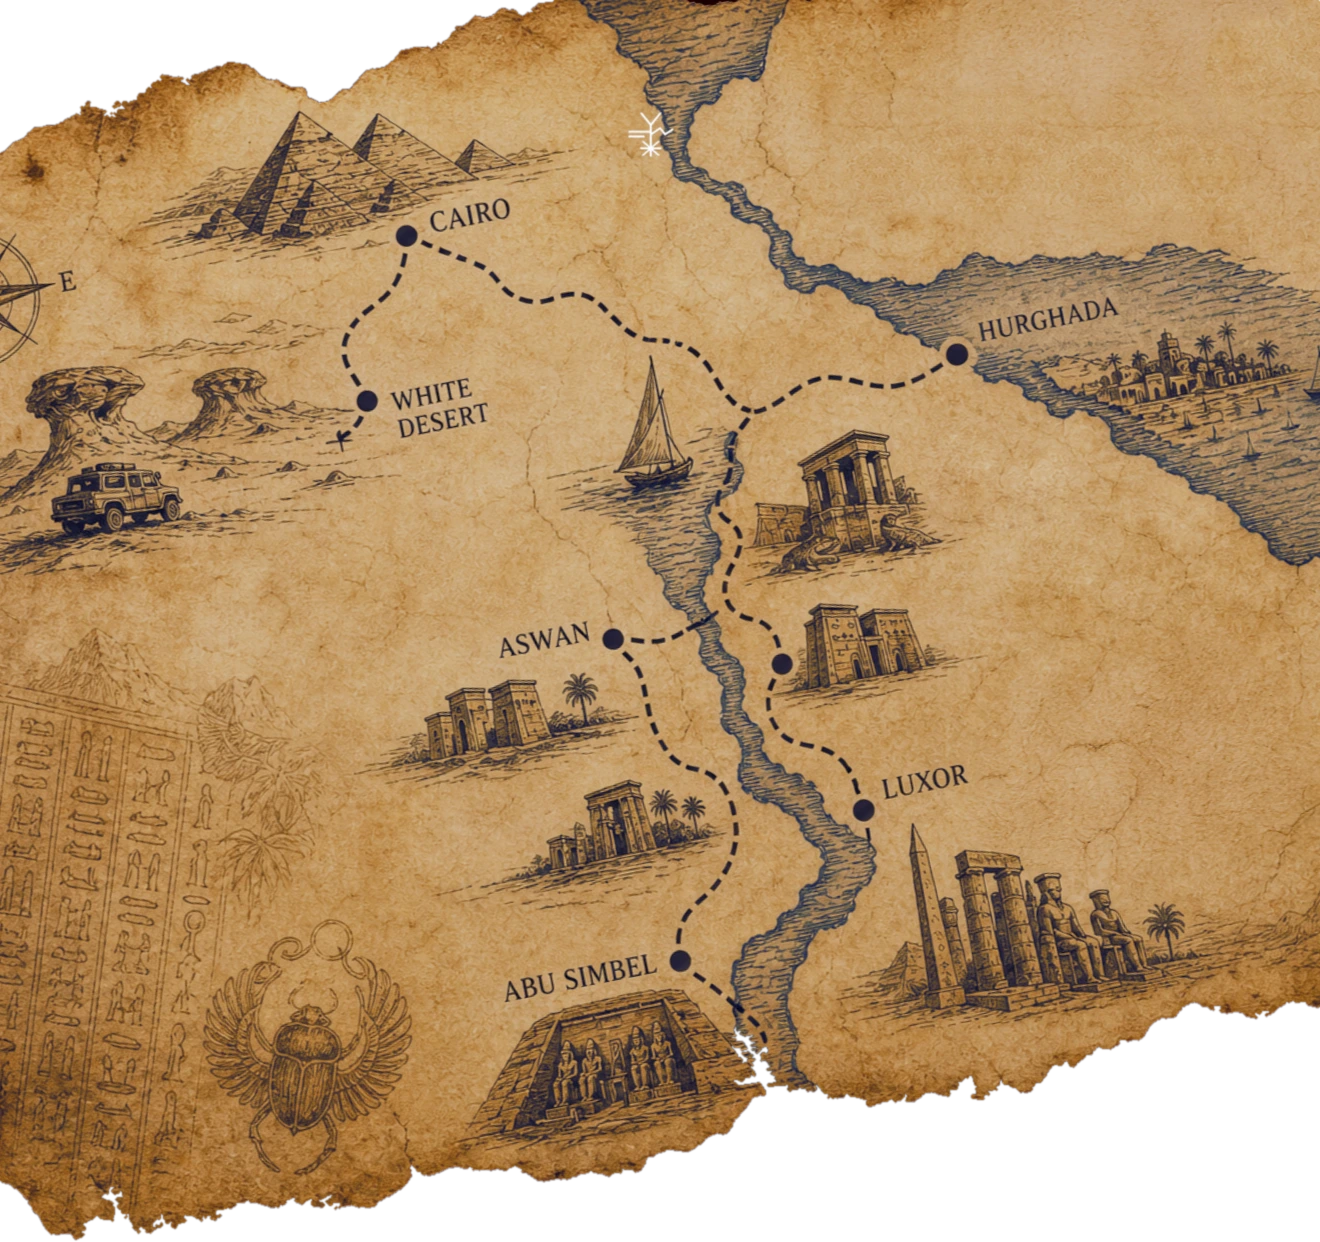
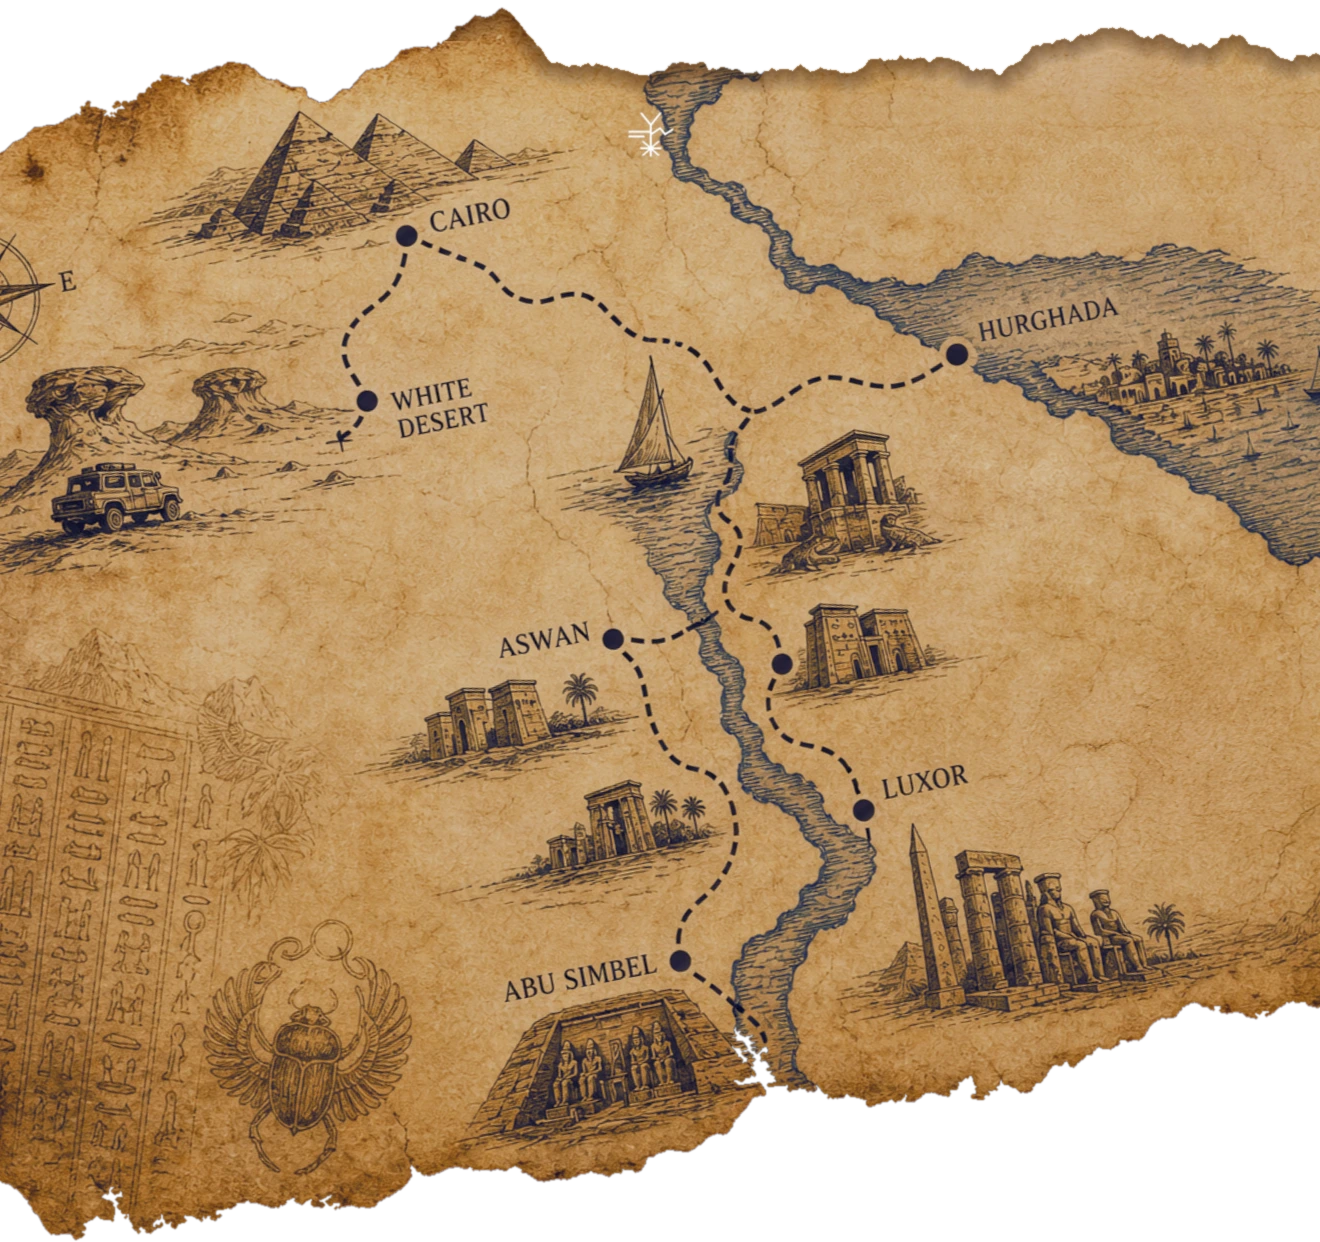
Egito: canto de cima do mapa rasgado como o resto (sem a parte reta), laterais de volta; presentes Gatinho de Bastet e Patinho do Nilo no lugar de abraço e coração
Claude-Session: https://claude.ai/code/session_017RJGScnowdndvDzY2p9N3m

Changed region(s): [[0.3417, 0.0, 1.0, 0.0918]]

diff --git a/APP CARAVANA EGITO/app/caravana-do-ceu.html b/APP CARAVANA EGITO/app/caravana-do-ceu.html
@@ -2233,8 +2233,6 @@ nav.tabs{background:#24180F!important;border-top:0!important;box-shadow:none!imp
 /* friso de sinais no fim de cada página e embaixo do título da página inicial */
 .view::after{content:"𓋹 𓂀 𓆣 𓊽 𓅃 𓆸 𓍶 𓃢 𓇳 𓇼";display:block;text-align:center;margin:26px 0 6px;font:20px/1 "Noto Sans Egyptian Hieroglyphs",serif;letter-spacing:.35em;color:rgba(60,36,14,.32);pointer-events:none}
 .mapahero h1::after{content:"𓇼 𓋹 𓇼";display:block;margin-top:6px;font:16px/1 "Noto Sans Egyptian Hieroglyphs",serif;letter-spacing:.5em;color:rgba(60,36,14,.45)}
-/* os lados retos do mapa somem no papiro (sem linha de corte) */
-.mmundo>img{-webkit-mask-image:linear-gradient(90deg,transparent 0,#000 7%,#000 93%,transparent 100%);mask-image:linear-gradient(90deg,transparent 0,#000 7%,#000 93%,transparent 100%)}
 
 /* Mensageiro do Nilo: a felucca balança na água em vez de bater asas */
 .felucca .asa{animation:none!important;transform:none!important}
@@ -9070,8 +9068,8 @@ function vJogo() {
 }
 // ---------- Pombo-correio entre os viajantes: cartinhas, presentes e oferendas ----------
 const PRESENTES = [["lotus", "Flor de lótus"], ["diya", "Lamparina"], ["karkade", "Chá de hibisco"], ["tamaras", "Tâmaras"], ["incenso", "Incenso"],
-  ["penamaat", "Pena de Maat"], ["sistro", "Sistro"], ["ankh", "Ankh da vida"], ["escaravelho", "Escaravelho"], ["olho", "Olho de Hórus"], ["abraco", "Um abraço"], ["coracao", "Meu coração"]];
-const PRESENTES_ANTIGOS = [["guirlanda", "Guirlanda de cravos"], ["chai", "Um chai"], ["ladoo", "Doce ladoo"], ["pena", "Pena de pavão"], ["sino", "Sino do templo"], ["coco", "Coco de oferenda"], ["rakhi", "Fio de proteção"]];
+  ["penamaat", "Pena de Maat"], ["sistro", "Sistro"], ["ankh", "Ankh da vida"], ["escaravelho", "Escaravelho"], ["olho", "Olho de Hórus"], ["gatinho", "Gatinho de Bastet"], ["patinho", "Patinho do Nilo"]];
+const PRESENTES_ANTIGOS = [["abraco", "Um abraço"], ["coracao", "Meu coração"], ["guirlanda", "Guirlanda de cravos"], ["chai", "Um chai"], ["ladoo", "Doce ladoo"], ["pena", "Pena de pavão"], ["sino", "Sino do templo"], ["coco", "Coco de oferenda"], ["rakhi", "Fio de proteção"]];
 const presenteDe = id => PRESENTES.find(x => x[0] === id) || PRESENTES_ANTIGOS.find(x => x[0] === id);
 function desenhaPresente(id) {
   const P = (d, fill, x) => h("path", { d, fill, ...(x || {}) }), C = (cx, cy, r, fill, x) => h("circle", { cx, cy, r, fill, ...(x || {}) });
@@ -9083,6 +9081,8 @@ function desenhaPresente(id) {
   if (id === "sistro") return [L("M20 25 L20 37", "#8A6420", 2.4), P("M13 25 Q12 5 20 5 Q28 5 27 25 L24 25 Q24.5 9 20 9 Q15.5 9 16 25 Z", O, { stroke: "#8A6420", "stroke-width": .8 }), L("M12 13 L28 13 M12 19 L28 19", "#8A6420", 1.2), ...[13, 19].flatMap(y => [C(11, y, 1.3, O), C(29, y, 1.3, O)])];
   if (id === "ankh") return [h("ellipse", { cx: 20, cy: 11, rx: 5, ry: 6.4, fill: "none", stroke: O, "stroke-width": 3.2 }), L("M10 19.5 L30 19.5", O, 3.4), L("M20 18 L20 36", O, 3.4)];
   if (id === "escaravelho") return [h("ellipse", { cx: 20, cy: 23, rx: 10, ry: 12, fill: "#2659A8", stroke: "#0E2756", "stroke-width": 1.2 }), h("ellipse", { cx: 20, cy: 11, rx: 5, ry: 3.4, fill: "#2659A8", stroke: "#0E2756", "stroke-width": 1.2 }), L("M20 14 L20 35 M10.5 17 Q20 14 29.5 17", "#0E2756", 1.2), L("M10 20 L5 17 M10 26 L4 27 M11 31 L6 35 M30 20 L35 17 M30 26 L36 27 M29 31 L34 35", "#0E2756", 1.3), P("M15 19 Q14 25 16 29", "none", { stroke: "#9FC3EE", "stroke-width": 1.4, opacity: .7 })];
+  if (id === "gatinho") return [P("M12 36 Q8 26 13 19 L12 9 L16.5 13.5 Q20 12.5 23.5 13.5 L28 9 L27 19 Q32 26 28 36 Z", "#2B2420", { stroke: "#120E0C", "stroke-width": .8 }), P("M28 34 Q36 33 34 24", "none", { stroke: "#2B2420", "stroke-width": 2.6, "stroke-linecap": "round" }), h("ellipse", { cx: 16.6, cy: 19.5, rx: 1.6, ry: 2, fill: "#E9C46A" }), h("ellipse", { cx: 23.4, cy: 19.5, rx: 1.6, ry: 2, fill: "#E9C46A" }), P("M18.8 23 L21.2 23 L20 24.4 Z", "#C27A7A"), P("M14 27.5 Q20 31 26 27.5", "none", { stroke: "#D4A84F", "stroke-width": 1.6 }), C(20, 30.4, 1.5, "#D4A84F")];
+  if (id === "patinho") return [P("M5 31 Q20 36 35 31", "none", { stroke: "#5E9AB8", "stroke-width": 1.6, "stroke-linecap": "round" }), P("M9 27 Q8 19 17 19 Q22 19 25 23 L32 21 Q31 30 22 31 Q12 32 9 27 Z", "#F2E6C8", { stroke: "#7A5A2E", "stroke-width": .9 }), C(14, 16, 5, "#3F7A5A", { stroke: "#2A5A3E", "stroke-width": .8 }), P("M9.5 16.5 L5 18 L9.5 19 Z", "#E2913A"), C(13, 15, .9, "#1E140B"), P("M17 24 Q22 22 26 25", "none", { stroke: "#B58A4A", "stroke-width": 1 })];
   if (id === "olho") return [P("M5 18 Q20 7 35 18 Q20 24 5 18 Z", "#F3EAD4", { stroke: "#1E2A4A", "stroke-width": 2 }), C(20, 17, 4, "#1E2A4A"), L("M35 18 L38 18", "#1E2A4A", 2), L("M17 22 L15 33 M24 22 Q27 30 33 30 Q35 27 32 25", "#1E2A4A", 2), L("M8 11 Q20 3 33 10", "#1E2A4A", 2)];
   if (id === "lotus") return [P("M20 31 Q9 30 5 21 Q13 21 20 31Z", "#E98AA6"), P("M20 31 Q31 30 35 21 Q27 21 20 31Z", "#E98AA6"), P("M20 31 Q11 24 12 13 Q19 19 20 31Z", "#F2A7BC"), P("M20 31 Q29 24 28 13 Q21 19 20 31Z", "#F2A7BC"), P("M20 31 Q14 20 20 7 Q26 20 20 31Z", "#F7C3D1"), P("M8 33 Q20 37 32 33", "none", { stroke: "#5F8A4A", "stroke-width": 2.2, "stroke-linecap": "round" })];
   if (id === "guirlanda") return [P("M7 9 Q20 44 33 9", "none", { stroke: "#3F7A3A", "stroke-width": 1, opacity: .6 }), ...Array.from({ length: 11 }, (_, k) => { const t = k / 10, x = 7 + 26 * t, y = 9 + 4 * 25 * t * (1 - t) * 1.08; return C(x, y, 3.1, k % 2 ? "#F2A51F" : "#E2711D", { stroke: "#B5541A", "stroke-width": .4 }); }), C(20, 36, 2.4, "#C0392B")];

diff --git a/APP CARAVANA EGITO/tools/egito/tema-gibi.css b/APP CARAVANA EGITO/tools/egito/tema-gibi.css
@@ -359,8 +359,6 @@ nav.tabs{background:#24180F!important;border-top:0!important;box-shadow:none!imp
 /* friso de sinais no fim de cada página e embaixo do título da página inicial */
 .view::after{content:"𓋹 𓂀 𓆣 𓊽 𓅃 𓆸 𓍶 𓃢 𓇳 𓇼";display:block;text-align:center;margin:26px 0 6px;font:20px/1 "Noto Sans Egyptian Hieroglyphs",serif;letter-spacing:.35em;color:rgba(60,36,14,.32);pointer-events:none}
 .mapahero h1::after{content:"𓇼 𓋹 𓇼";display:block;margin-top:6px;font:16px/1 "Noto Sans Egyptian Hieroglyphs",serif;letter-spacing:.5em;color:rgba(60,36,14,.45)}
-/* os lados retos do mapa somem no papiro (sem linha de corte) */
-.mmundo>img{-webkit-mask-image:linear-gradient(90deg,transparent 0,#000 7%,#000 93%,transparent 100%);mask-image:linear-gradient(90deg,transparent 0,#000 7%,#000 93%,transparent 100%)}
 
 /* Mensageiro do Nilo: a felucca balança na água em vez de bater asas */
 .felucca .asa{animation:none!important;transform:none!important}

diff --git a/APP CARAVANA EGITO/tools/egito/mensageiro-nilo.py b/APP CARAVANA EGITO/tools/egito/mensageiro-nilo.py
@@ -61,8 +61,8 @@ t = p.read_text()
 velho = '''const PRESENTES = [["lotus", "Flor de lótus"], ["guirlanda", "Guirlanda de cravos"], ["diya", "Lamparina"], ["chai", "Um chai"], ["ladoo", "Doce ladoo"], ["incenso", "Incenso"],
   ["pena", "Pena de pavão"], ["sino", "Sino do templo"], ["coco", "Coco de oferenda"], ["rakhi", "Fio de proteção"], ["abraco", "Um abraço"], ["coracao", "Meu coração"]];'''
 novo = '''const PRESENTES = [["lotus", "Flor de lótus"], ["diya", "Lamparina"], ["karkade", "Chá de hibisco"], ["tamaras", "Tâmaras"], ["incenso", "Incenso"],
-  ["penamaat", "Pena de Maat"], ["sistro", "Sistro"], ["ankh", "Ankh da vida"], ["escaravelho", "Escaravelho"], ["olho", "Olho de Hórus"], ["abraco", "Um abraço"], ["coracao", "Meu coração"]];
-const PRESENTES_ANTIGOS = [["guirlanda", "Guirlanda de cravos"], ["chai", "Um chai"], ["ladoo", "Doce ladoo"], ["pena", "Pena de pavão"], ["sino", "Sino do templo"], ["coco", "Coco de oferenda"], ["rakhi", "Fio de proteção"]];'''
+  ["penamaat", "Pena de Maat"], ["sistro", "Sistro"], ["ankh", "Ankh da vida"], ["escaravelho", "Escaravelho"], ["olho", "Olho de Hórus"], ["gatinho", "Gatinho de Bastet"], ["patinho", "Patinho do Nilo"]];
+const PRESENTES_ANTIGOS = [["abraco", "Um abraço"], ["coracao", "Meu coração"], ["guirlanda", "Guirlanda de cravos"], ["chai", "Um chai"], ["ladoo", "Doce ladoo"], ["pena", "Pena de pavão"], ["sino", "Sino do templo"], ["coco", "Coco de oferenda"], ["rakhi", "Fio de proteção"]];'''
 if velho in t:
     t = t.replace(velho, novo)
     t = t.replace("const presenteDe = id => PRESENTES.find(x => x[0] === id);", "const presenteDe = id => PRESENTES.find(x => x[0] === id) || PRESENTES_ANTIGOS.find(x => x[0] === id);")
@@ -74,5 +74,7 @@ if velho in t:
   if (id === "sistro") return [L("M20 25 L20 37", "#8A6420", 2.4), P("M13 25 Q12 5 20 5 Q28 5 27 25 L24 25 Q24.5 9 20 9 Q15.5 9 16 25 Z", O, { stroke: "#8A6420", "stroke-width": .8 }), L("M12 13 L28 13 M12 19 L28 19", "#8A6420", 1.2), ...[13, 19].flatMap(y => [C(11, y, 1.3, O), C(29, y, 1.3, O)])];
   if (id === "ankh") return [h("ellipse", { cx: 20, cy: 11, rx: 5, ry: 6.4, fill: "none", stroke: O, "stroke-width": 3.2 }), L("M10 19.5 L30 19.5", O, 3.4), L("M20 18 L20 36", O, 3.4)];
   if (id === "escaravelho") return [h("ellipse", { cx: 20, cy: 23, rx: 10, ry: 12, fill: "#2659A8", stroke: "#0E2756", "stroke-width": 1.2 }), h("ellipse", { cx: 20, cy: 11, rx: 5, ry: 3.4, fill: "#2659A8", stroke: "#0E2756", "stroke-width": 1.2 }), L("M20 14 L20 35 M10.5 17 Q20 14 29.5 17", "#0E2756", 1.2), L("M10 20 L5 17 M10 26 L4 27 M11 31 L6 35 M30 20 L35 17 M30 26 L36 27 M29 31 L34 35", "#0E2756", 1.3), P("M15 19 Q14 25 16 29", "none", { stroke: "#9FC3EE", "stroke-width": 1.4, opacity: .7 })];
+  if (id === "gatinho") return [P("M12 36 Q8 26 13 19 L12 9 L16.5 13.5 Q20 12.5 23.5 13.5 L28 9 L27 19 Q32 26 28 36 Z", "#2B2420", { stroke: "#120E0C", "stroke-width": .8 }), P("M28 34 Q36 33 34 24", "none", { stroke: "#2B2420", "stroke-width": 2.6, "stroke-linecap": "round" }), h("ellipse", { cx: 16.6, cy: 19.5, rx: 1.6, ry: 2, fill: "#E9C46A" }), h("ellipse", { cx: 23.4, cy: 19.5, rx: 1.6, ry: 2, fill: "#E9C46A" }), P("M18.8 23 L21.2 23 L20 24.4 Z", "#C27A7A"), P("M14 27.5 Q20 31 26 27.5", "none", { stroke: "#D4A84F", "stroke-width": 1.6 }), C(20, 30.4, 1.5, "#D4A84F")];
+  if (id === "patinho") return [P("M5 31 Q20 36 35 31", "none", { stroke: "#5E9AB8", "stroke-width": 1.6, "stroke-linecap": "round" }), P("M9 27 Q8 19 17 19 Q22 19 25 23 L32 21 Q31 30 22 31 Q12 32 9 27 Z", "#F2E6C8", { stroke: "#7A5A2E", "stroke-width": .9 }), C(14, 16, 5, "#3F7A5A", { stroke: "#2A5A3E", "stroke-width": .8 }), P("M9.5 16.5 L5 18 L9.5 19 Z", "#E2913A"), C(13, 15, .9, "#1E140B"), P("M17 24 Q22 22 26 25", "none", { stroke: "#B58A4A", "stroke-width": 1 })];
   if (id === "olho") return [P("M5 18 Q20 7 35 18 Q20 24 5 18 Z", "#F3EAD4", { stroke: "#1E2A4A", "stroke-width": 2 }), C(20, 17, 4, "#1E2A4A"), L("M35 18 L38 18", "#1E2A4A", 2), L("M17 22 L15 33 M24 22 Q27 30 33 30 Q35 27 32 25", "#1E2A4A", 2), L("M8 11 Q20 3 33 10", "#1E2A4A", 2)];''')
     p.write_text(t); print("presentes do Egito")

diff --git a/APP CARAVANA EGITO/tools/egito/recortar-mapa-rota.py b/APP CARAVANA EGITO/tools/egito/recortar-mapa-rota.py
@@ -23,6 +23,21 @@ ids = set(np.unique(np.concatenate([lab[0], lab[-1]]))) - {0}; tam = np.bincount
 fundo = np.isin(lab, [i for i in ids if tam[i] > 3000])          # só o fundo escuro de cima e de baixo
 m = ndimage.binary_opening(~fundo, iterations=1)
 lab2, _ = ndimage.label(m); m = ndimage.binary_fill_holes(lab2 == np.argmax(np.bincount(lab2.ravel())[1:]) + 1)
+# onde o papel encostava no topo do slide (canto de cima à direita), a borda era reta: rasga ali também,
+# com a mesma cara das bordas rasgadas originais (recortes irregulares e beirada queimada)
+toca = m[:4].any(0)
+if toca.any():
+    r = np.random.default_rng(9); xs = np.arange(W)
+    serra = np.zeros(W)
+    for esc, amp in ((140, 46), (40, 22), (10, 9), (4, 4)):
+        k = r.random(W // esc + 3); serra += amp * np.interp(xs / esc, np.arange(len(k)), k)
+    rampa = ndimage.gaussian_filter1d(toca.astype(float), 25)        # entra suave a partir do rasgo que já existia
+    borda = (10 + serra) * np.clip(rampa * 1.4, 0, 1)
+    m &= ~(yy < borda[None, :])
+    dist = ndimage.distance_transform_edt(m)
+    perto = (yy < borda[None, :] + 40) & m
+    queima = np.clip(1 - dist / 22, 0, 1) * perto
+    a = a * (1 - queima[..., None] * .55) + np.array([70, 40, 18.]) * queima[..., None] * .55
 alpha = ndimage.gaussian_filter(m.astype(float), .8) * 255
 Image.fromarray(np.dstack([np.clip(a, 0, 255).astype("uint8"), alpha.clip(0, 255).astype("uint8")]), "RGBA").crop((0, 0, 1320, 1242)).save(raiz / "app/img/mapa-rota.webp", "WEBP", quality=92)
 print("ok")
